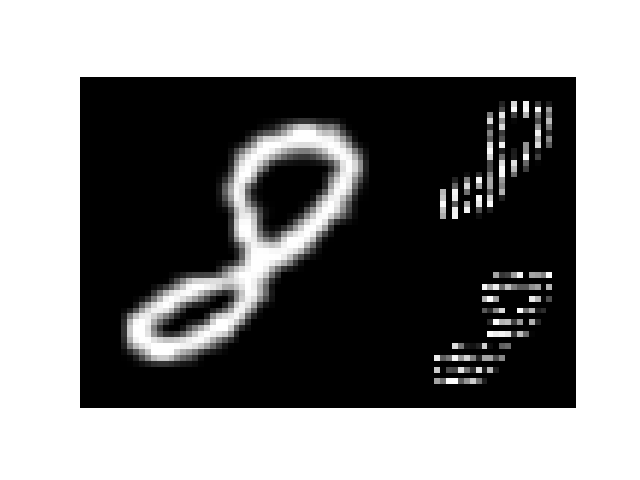
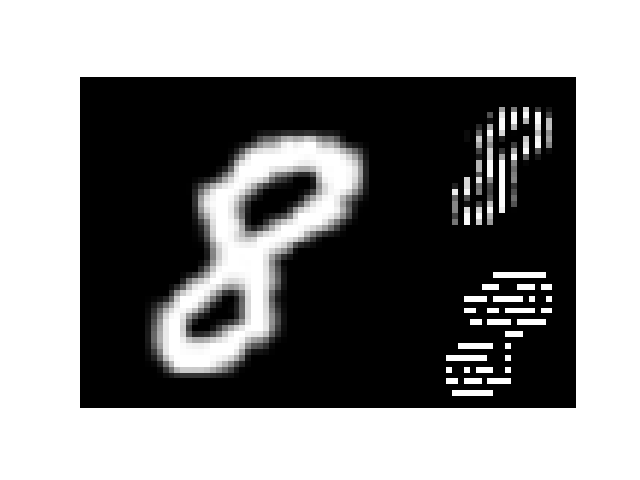
add picture painting for minist

Changed region(s): [[0.1875, 0.2188, 0.5938, 0.8125], [0.6562, 0.5625, 0.875, 0.8438], [0.6875, 0.1875, 0.875, 0.4688]]

diff --git a/util/painting.py b/util/painting.py
@@ -107,48 +107,108 @@ class MatrixPainter:
 
 
 
-    def stack_images(pics):
+    def stack_images(self, pics):
         # 使用函数：
         # pics = [(A1, B1, C1), (A2, B2, C2), ... , (A5, B5, C5)] 假设这样的列表存在
         # final_img = stack_images(pics)
+                   
+        
         stacked_imgs_list = []
+        final_images = []
 
-        for A, B, C in pics:
+        for i, (A, B, C) in enumerate(pics):
             # 将numpy数组转成PIL图片
             A_img, B_img, C_img = map(Image.fromarray, [A, B, C])
         
-            # 获取A图像的尺寸
-            a_width, a_height = A_img.size
-        
-            # 将B和C图像调整为A图像宽度的一半
-            B_img_resized = B_img.resize((a_width//2, a_height//2))
-            C_img_resized = C_img.resize((a_width//2, a_height//2))
-
-            # 将resize后的B和C PIL图片转为numpy数组
-            B_resized, C_resized = map(np.array, [B_img_resized, C_img_resized])
-        
-            # 垂直堆叠B和C图像
-            stacked_BC = np.vstack((B_resized, C_resized))
-
             # 水平堆叠A图像和堆叠后的BC图像
-            stacked_imgs = np.hstack((A, stacked_BC))
+            stacked_imgs = np.hstack((A_img, B_img, C_img))
 
             stacked_imgs_list.append(stacked_imgs)
 
-        # 最后我们可以对 stacked_imgs_list 进行垂直堆叠
-        final_stacked_img = np.vstack(stacked_imgs_list)
+            # 每5次垂直堆叠后进行一次水平堆叠
+            if (i + 1) % 5 == 0:
+                final_images.append(np.vstack(stacked_imgs_list))
+                stacked_imgs_list = []
+            
+        # 为了保证如果有不足五组的情况也能处理，所以我们在循环结束后也要进行垂直堆叠
+        if stacked_imgs_list:
+            final_images.append(np.vstack(stacked_imgs_list))
+        
+        # 最终的垂直堆叠图像进行水平堆叠
+        image = np.hstack(final_images)
 
         # 显示并保存图像
-        # plt.imshow(final_img, cmap='gray')
-        # plt.axis('off')
-        # plt.savefig('picture/final_stacked.png')
-        # plt.show()
+        plt.imshow(image, cmap='gray')
+        plt.axis('off')
+        plt.savefig('picture/final_stacked.png')
+        plt.show()
 
-        return final_stacked_img
+        # return final_stacked_img
+
+    def stack_images(self, pics1, pics2):
+        # 使用函数：
+        # pics = [(A1, B1, C1), (A2, B2, C2), ... , (A5, B5, C5)] 假设这样的列表存在
+        # final_img = stack_images(pics)
+
+        
+        stacked_imgs_list = []
+        final_images1 = []
+        final_images2 = []
+
+        for i, (A, B, C) in enumerate(pics1):
+            # 将numpy数组转成PIL图片
+            A_img, B_img, C_img = map(Image.fromarray, [A, B, C])
+        
+            # 水平堆叠A图像和堆叠后的BC图像
+            stacked_imgs = np.hstack((A_img, B_img, C_img))
+
+            stacked_imgs_list.append(stacked_imgs)
+
+            # 每5次垂直堆叠后进行一次水平堆叠
+            if (i + 1) % 5 == 0:
+                final_images1.append(np.vstack(stacked_imgs_list))
+                stacked_imgs_list = []
+            
+        # 为了保证如果有不足五组的情况也能处理，所以我们在循环结束后也要进行垂直堆叠
+        if stacked_imgs_list:
+            final_images1.append(np.vstack(stacked_imgs_list))
+        
+        # 最终的垂直堆叠图像进行水平堆叠
+        image1 = np.hstack(final_images1)
 
 
+        stacked_imgs_list = []
+        for i, (A, B, C) in enumerate(pics2):
+            # 将numpy数组转成PIL图片
+            A_img, B_img, C_img = map(Image.fromarray, [A, B, C])
+        
+            # 水平堆叠A图像和堆叠后的BC图像
+            stacked_imgs = np.hstack((A_img, B_img, C_img))
+
+            stacked_imgs_list.append(stacked_imgs)
+
+            # 每5次垂直堆叠后进行一次水平堆叠
+            if (i + 1) % 5 == 0:
+                final_images2.append(np.vstack(stacked_imgs_list))
+                stacked_imgs_list = []
+            
+        # 为了保证如果有不足五组的情况也能处理，所以我们在循环结束后也要进行垂直堆叠
+        if stacked_imgs_list:
+            final_images2.append(np.vstack(stacked_imgs_list))
+        
+        # 最终的垂直堆叠图像进行水平堆叠
+        image2 = np.hstack(final_images2)
+
+        image = np.vstack((image1, image2))
 
 
+        # 显示并保存图像
+        plt.imshow(image, cmap='gray')
+        plt.axis('off')
+        plt.savefig('picture/final_stacked.png')
+        plt.show()
+
+        # return final_stacked_img
 
 # 使用示例
 if __name__ == '__main__':

diff --git a/experiment2.py b/experiment2.py
@@ -10,7 +10,7 @@ class PictureProcessor:
         self.matrix = matrix
 
     def process_matrices(self):
-        matrix = self._add_column_if_needed(self.matrix)
+        # matrix = self._add_column_if_needed(self.matrix)
         leak_left = self._generate_leak_left(matrix)
         restore_left = self._generate_matrix_C(leak_left)
         leak_right = self._generate_matrix_D(matrix)
@@ -60,11 +60,11 @@ class PictureProcessor:
                 if leak_right[i, j] == 0:
                     restore_right[2*i, j] = restore_right[2*i + 1, j] = 0
                 elif leak_right[i, j] < 0:
-                    restore_right[2*i, j] = -leak_right[i, j]
+                    restore_right[2*i, j] = -leak_right[i, j] * 2 
                     restore_right[2*i + 1, j] = 0
                 else:
                     restore_right[2*i, j] = 0
-                    restore_right[2*i + 1, j] = leak_right[i, j]
+                    restore_right[2*i + 1, j] = leak_right[i, j] * 2
         return restore_right
 
 def save_image(matrix, file_path):
@@ -78,30 +78,71 @@ def save_image(matrix, file_path):
 
 # 示例使用
 if __name__ == "__main__":
-    # 随机加载一张标签为0的图片并将其转换为矩阵
-    loader = MNISTLoader("./data/minist")
-    matrix = loader.load_random_image(8)
-    
+
     # 确保picture目录存在
     os.makedirs('picture', exist_ok=True)
-    
-    # 保存选取的图片到picture目录
-    save_image(matrix, 'picture/original_image.png')
-    
-    # 处理矩阵并生成矩阵leak_left和C
-    processor = PictureProcessor(matrix)
-    leak_left, restore_left, leak_right, restore_right = processor.process_matrices()
-    
-    # 保存矩阵C到picture目录
-    save_image(restore_left, 'picture/processed_imageC.png')
-    save_image(restore_right, 'picture/processed_imageE.png')
 
+    loader = MNISTLoader("./data/minist")
+
+    tuple_matrices1 = []
+    tuple_matrices2 = []
+    for i in range(5):
+        list_matrices = loader.load_random_images(i)        
+        for matrix in list_matrices:
+            processor = PictureProcessor(matrix)
+            leak_left, restore_left, leak_right, restore_right = processor.process_matrices()
+            tuple_matrices1.append((matrix, restore_left, restore_right))
+    for i in range(5, 10):
+        list_matrices = loader.load_random_images(i)        
+        for matrix in list_matrices:
+            processor = PictureProcessor(matrix)
+            leak_left, restore_left, leak_right, restore_right = processor.process_matrices()
+            tuple_matrices2.append((matrix, restore_left, restore_right))
+
+    
     painter = MatrixPainter()
     # 绘制矩阵比较图
-    painter.minist_painting(matrix, restore_left, restore_right)
+    painter.stack_images(tuple_matrices1, tuple_matrices2)
 
-    # 输出结果矩阵leak_left和C的形状以验证
-    print("Matrix leak_left shape:", leak_left.shape)
-    print("Matrix restore_left shape:", restore_left.shape)
-    print("Matrix leak_right shape:", leak_right.shape)
-    print("Matrix restore_right shape:", restore_right.shape)
+    # tuple_matrices = []
+    # for i in range(10):
+    #     list_matrices = loader.load_random_images(i)        
+    #     for matrix in list_matrices:
+    #         processor = PictureProcessor(matrix)
+    #         leak_left, restore_left, leak_right, restore_right = processor.process_matrices()
+    #         tuple_matrices.append((matrix, restore_left, restore_right))
+
+    
+    # painter = MatrixPainter()
+    # # 绘制矩阵比较图
+    # painter.stack_images(tuple_matrices)
+
+
+
+    # # 随机加载一张标签为0的图片并将其转换为矩阵
+    # loader = MNISTLoader("./data/minist")
+    # matrix = loader.load_random_image(8)
+    
+    # # 确保picture目录存在
+    # os.makedirs('picture', exist_ok=True)
+    
+    # # 保存选取的图片到picture目录
+    # save_image(matrix, 'picture/original_image.png')
+    
+    # # 处理矩阵并生成矩阵leak_left和C
+    # processor = PictureProcessor(matrix)
+    # leak_left, restore_left, leak_right, restore_right = processor.process_matrices()
+    
+    # # 保存矩阵C到picture目录
+    # save_image(restore_left, 'picture/processed_imageC.png')
+    # save_image(restore_right, 'picture/processed_imageE.png')
+
+    # painter = MatrixPainter()
+    # # 绘制矩阵比较图
+    # painter.minist_painting(matrix, restore_left, restore_right)
+
+    # # 输出结果矩阵leak_left和C的形状以验证
+    # print("Matrix leak_left shape:", leak_left.shape)
+    # print("Matrix restore_left shape:", restore_left.shape)
+    # print("Matrix leak_right shape:", leak_right.shape)
+    # print("Matrix restore_right shape:", restore_right.shape)

diff --git a/reader/minist.py b/reader/minist.py
@@ -7,24 +7,55 @@ class MNISTLoader:
     def __init__(self, directory="./data/minist"):
         self.directory = directory
 
-    def load_random_image(self, label):
+    # def load_random_image(self, label):
+    #     """
+    #     从指定目录随机加载一个指定标签的图片，并将其转换为矩阵。
+    #     """
+    #     # 构建指定标签的图片文件路径列表
+    #     image_files = [f for f in os.listdir(self.directory) if f.endswith('.png') and f.startswith(str(label))]
+        
+    #     # 随机选择一个图片文件
+    #     random_image_file = random.choice(image_files)
+    #     image_path = os.path.join(self.directory, random_image_file)
+        
+    #     # 使用Pillow库读取图片
+    #     image = Image.open(image_path)
+        
+    #     # 将图片转换为灰度模式，然后转换为NumPy矩阵
+    #     image_matrix = np.array(image.convert('L'))
+        
+    #     return image_matrix
+
+    def load_random_images(self, label, num_images=5):
         """
-        从指定目录随机加载一个指定标签的图片，并将其转换为矩阵。
+        从指定目录随机加载指定数量的指定标签的图片，并将其转换为矩阵。
         """
         # 构建指定标签的图片文件路径列表
         image_files = [f for f in os.listdir(self.directory) if f.endswith('.png') and f.startswith(str(label))]
         
-        # 随机选择一个图片文件
-        random_image_file = random.choice(image_files)
-        image_path = os.path.join(self.directory, random_image_file)
+        # 如果图片数量不足要求的数量，则返回空列表
+        if len(image_files) < num_images:
+            return []
+
+        # 随机选择指定数量的图片文件
+        random_image_files = random.sample(image_files, num_images)
+
+        # 存储图片矩阵的列表
+        image_matrices = []
+
+        for random_image_file in random_image_files:
+            image_path = os.path.join(self.directory, random_image_file)
+            
+            # 使用Pillow库读取图片
+            image = Image.open(image_path)
+            
+            # 将图片转换为灰度模式，然后转换为NumPy矩阵
+            image_matrix = np.array(image.convert('L'))
+            
+            # 将图片矩阵添加到列表中
+            image_matrices.append(image_matrix)
         
-        # 使用Pillow库读取图片
-        image = Image.open(image_path)
-        
-        # 将图片转换为灰度模式，然后转换为NumPy矩阵
-        image_matrix = np.array(image.convert('L'))
-        
-        return image_matrix
+        return image_matrices
 
 # 示例使用
 if __name__ == "__main__":
